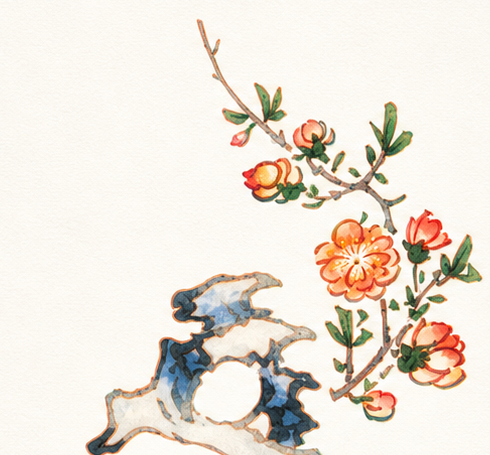
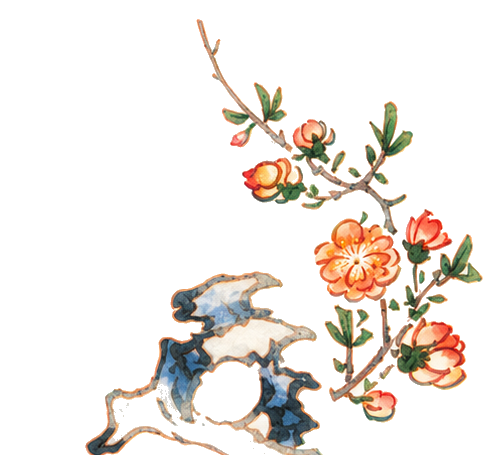
Remove transition pattern paper blocks

diff --git a/src/styles/jianpu.css b/src/styles/jianpu.css
@@ -98,8 +98,8 @@
   opacity: .96;
   object-fit: contain;
   transform: translateY(-50%);
-  mix-blend-mode: multiply;
-  filter: saturate(1.02) contrast(1);
+  mix-blend-mode: normal;
+  filter: none;
 }
 
 .shizhuzhai-plate::before {
